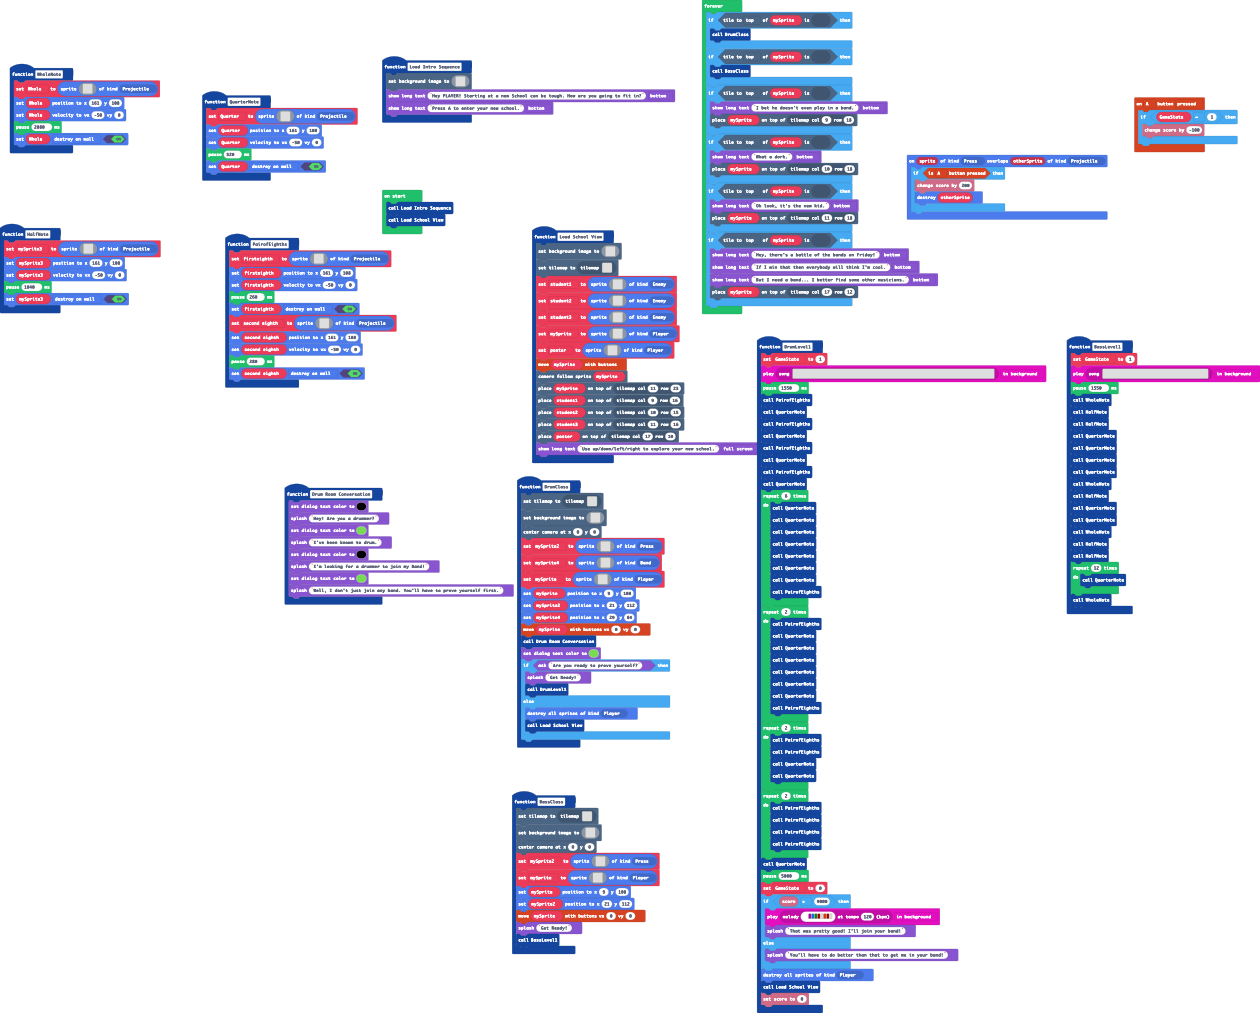
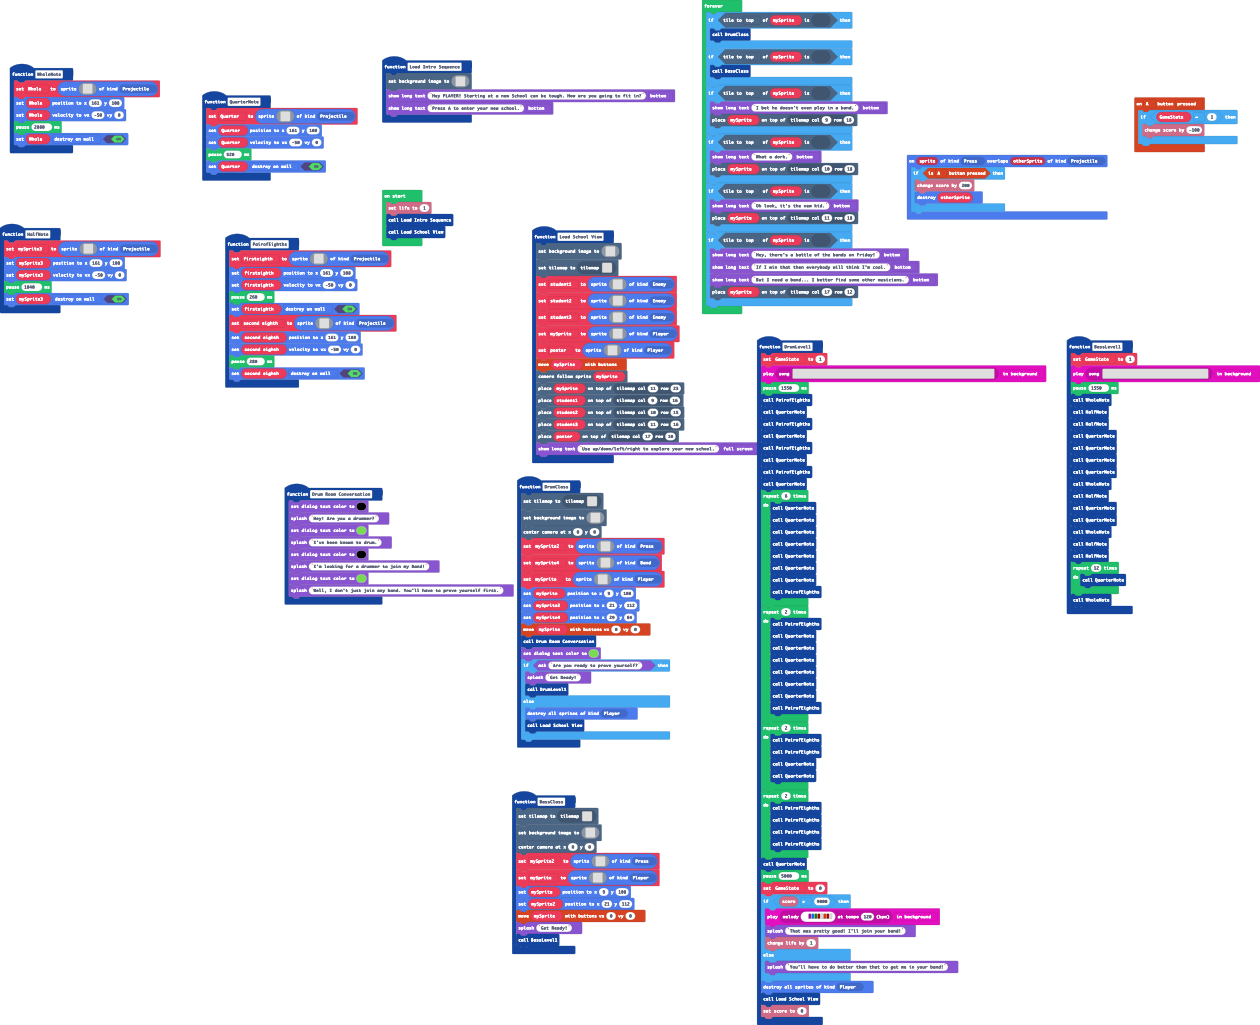
2 oclock changes

diff --git a/main.ts b/main.ts
@@ -94,6 +94,7 @@ function DrumLevel1 () {
     if (info.score() > 9000) {
         music.play(music.stringPlayable("C E G C5 - B C5 - ", 120), music.PlaybackMode.InBackground)
         game.splash("That was pretty good! I'll join your band!")
+        info.changeLifeBy(1)
     } else {
         game.splash("You'll have to do better than that to get me in your band!")
     }
@@ -326,6 +327,7 @@ let mySprite2: Sprite = null
 let Quarter: Sprite = null
 let mySprite3: Sprite = null
 let GameState = 0
+info.setLife(1)
 Load_Intro_Sequence()
 Load_School_View()
 forever(function () {
